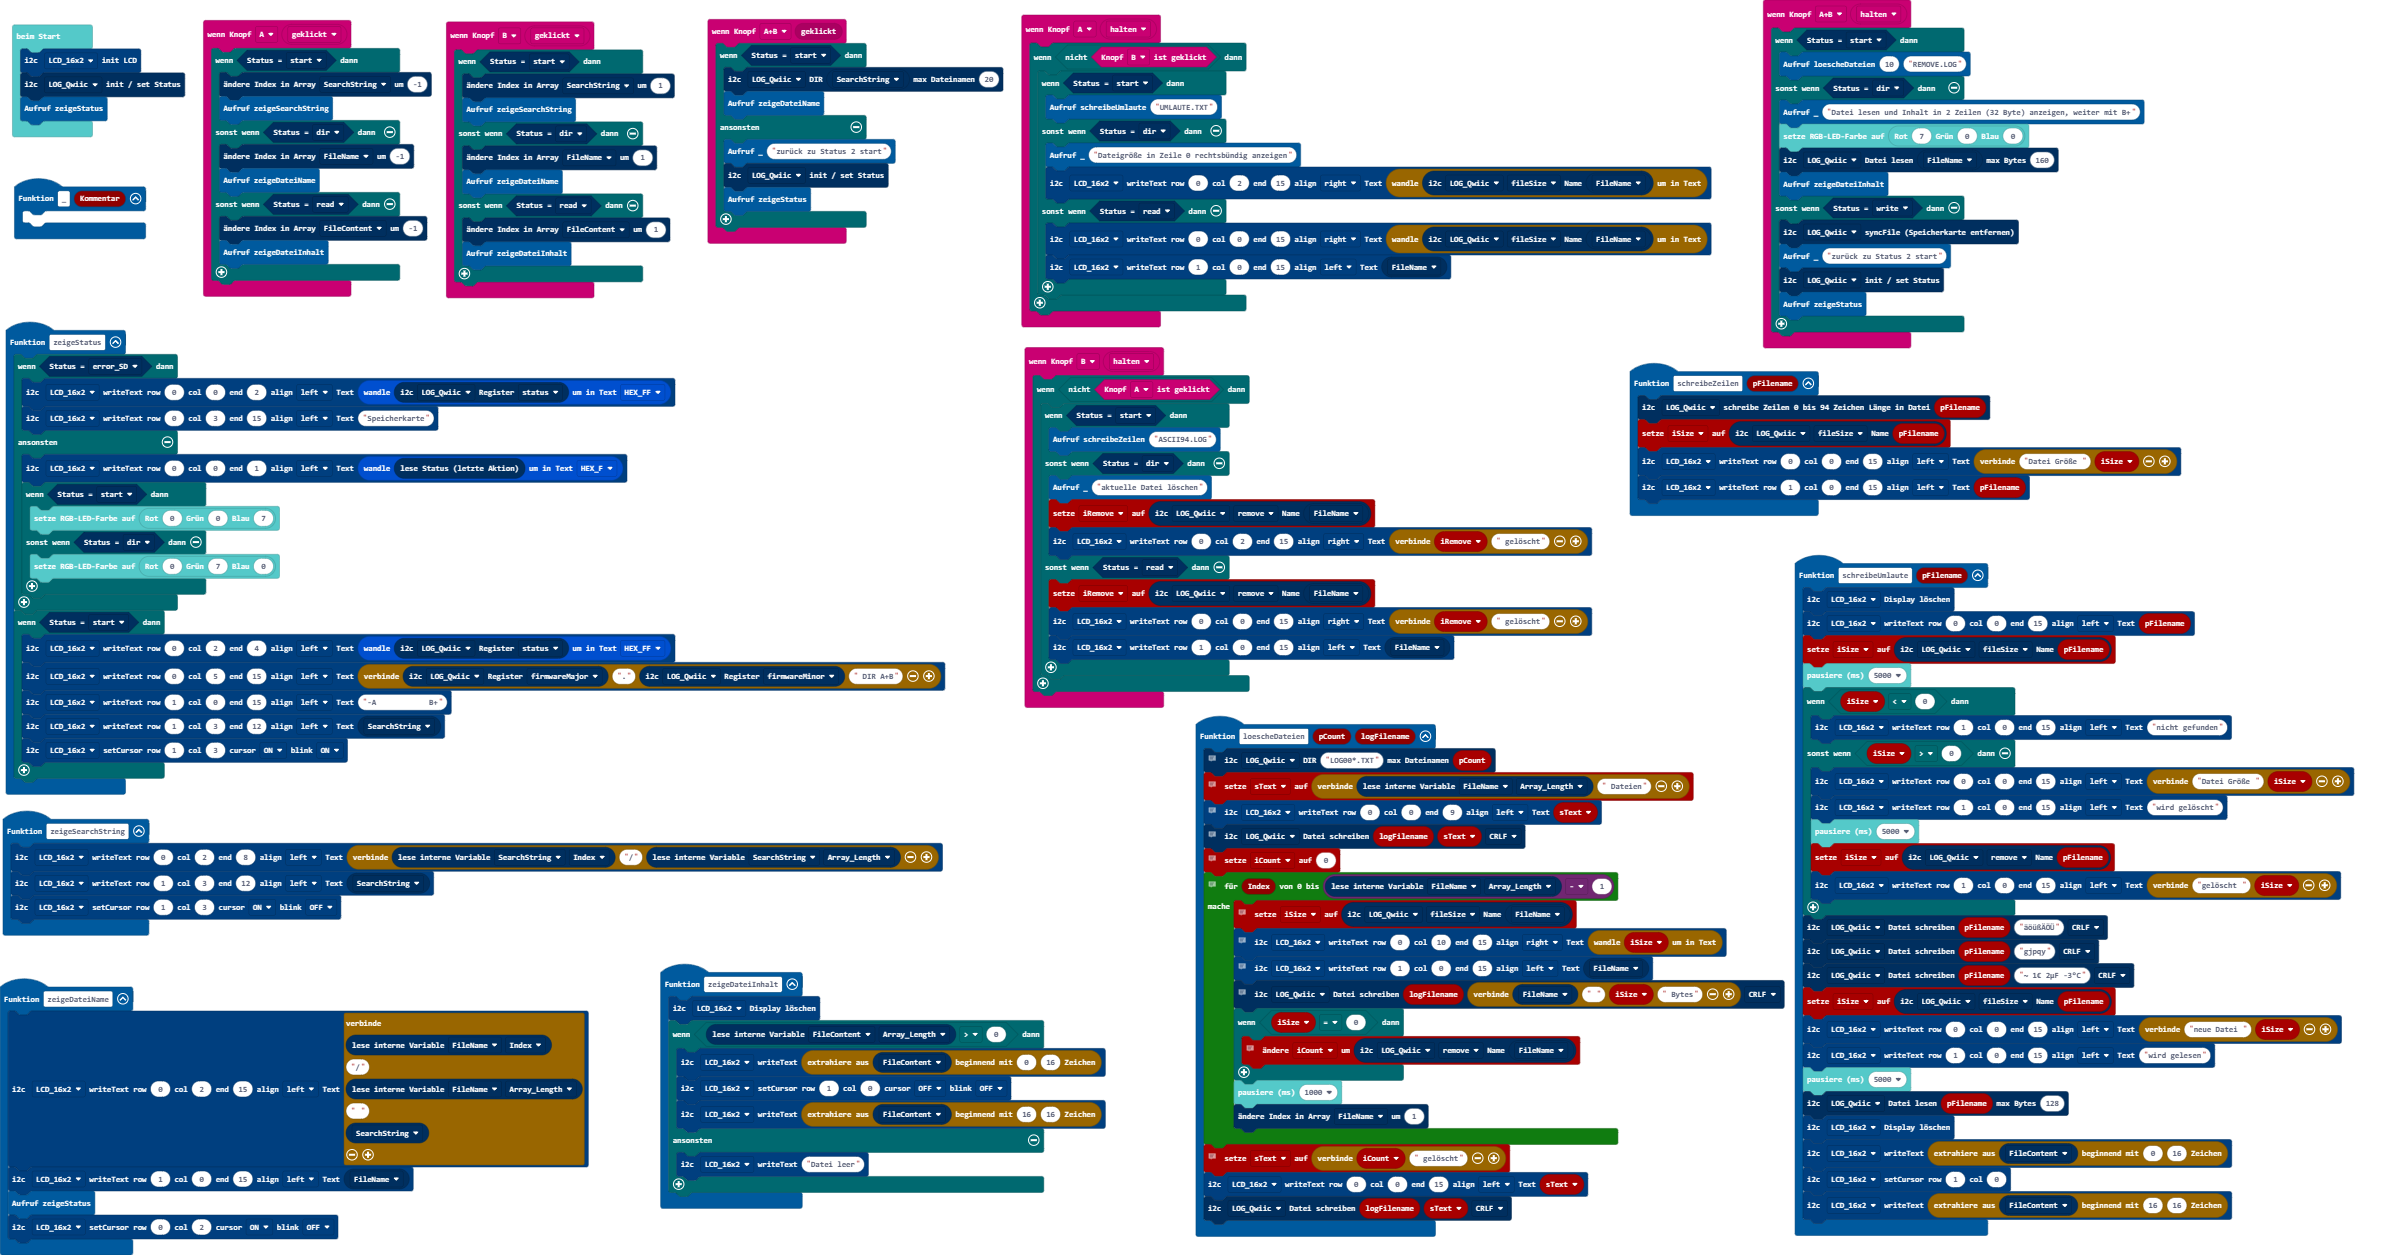
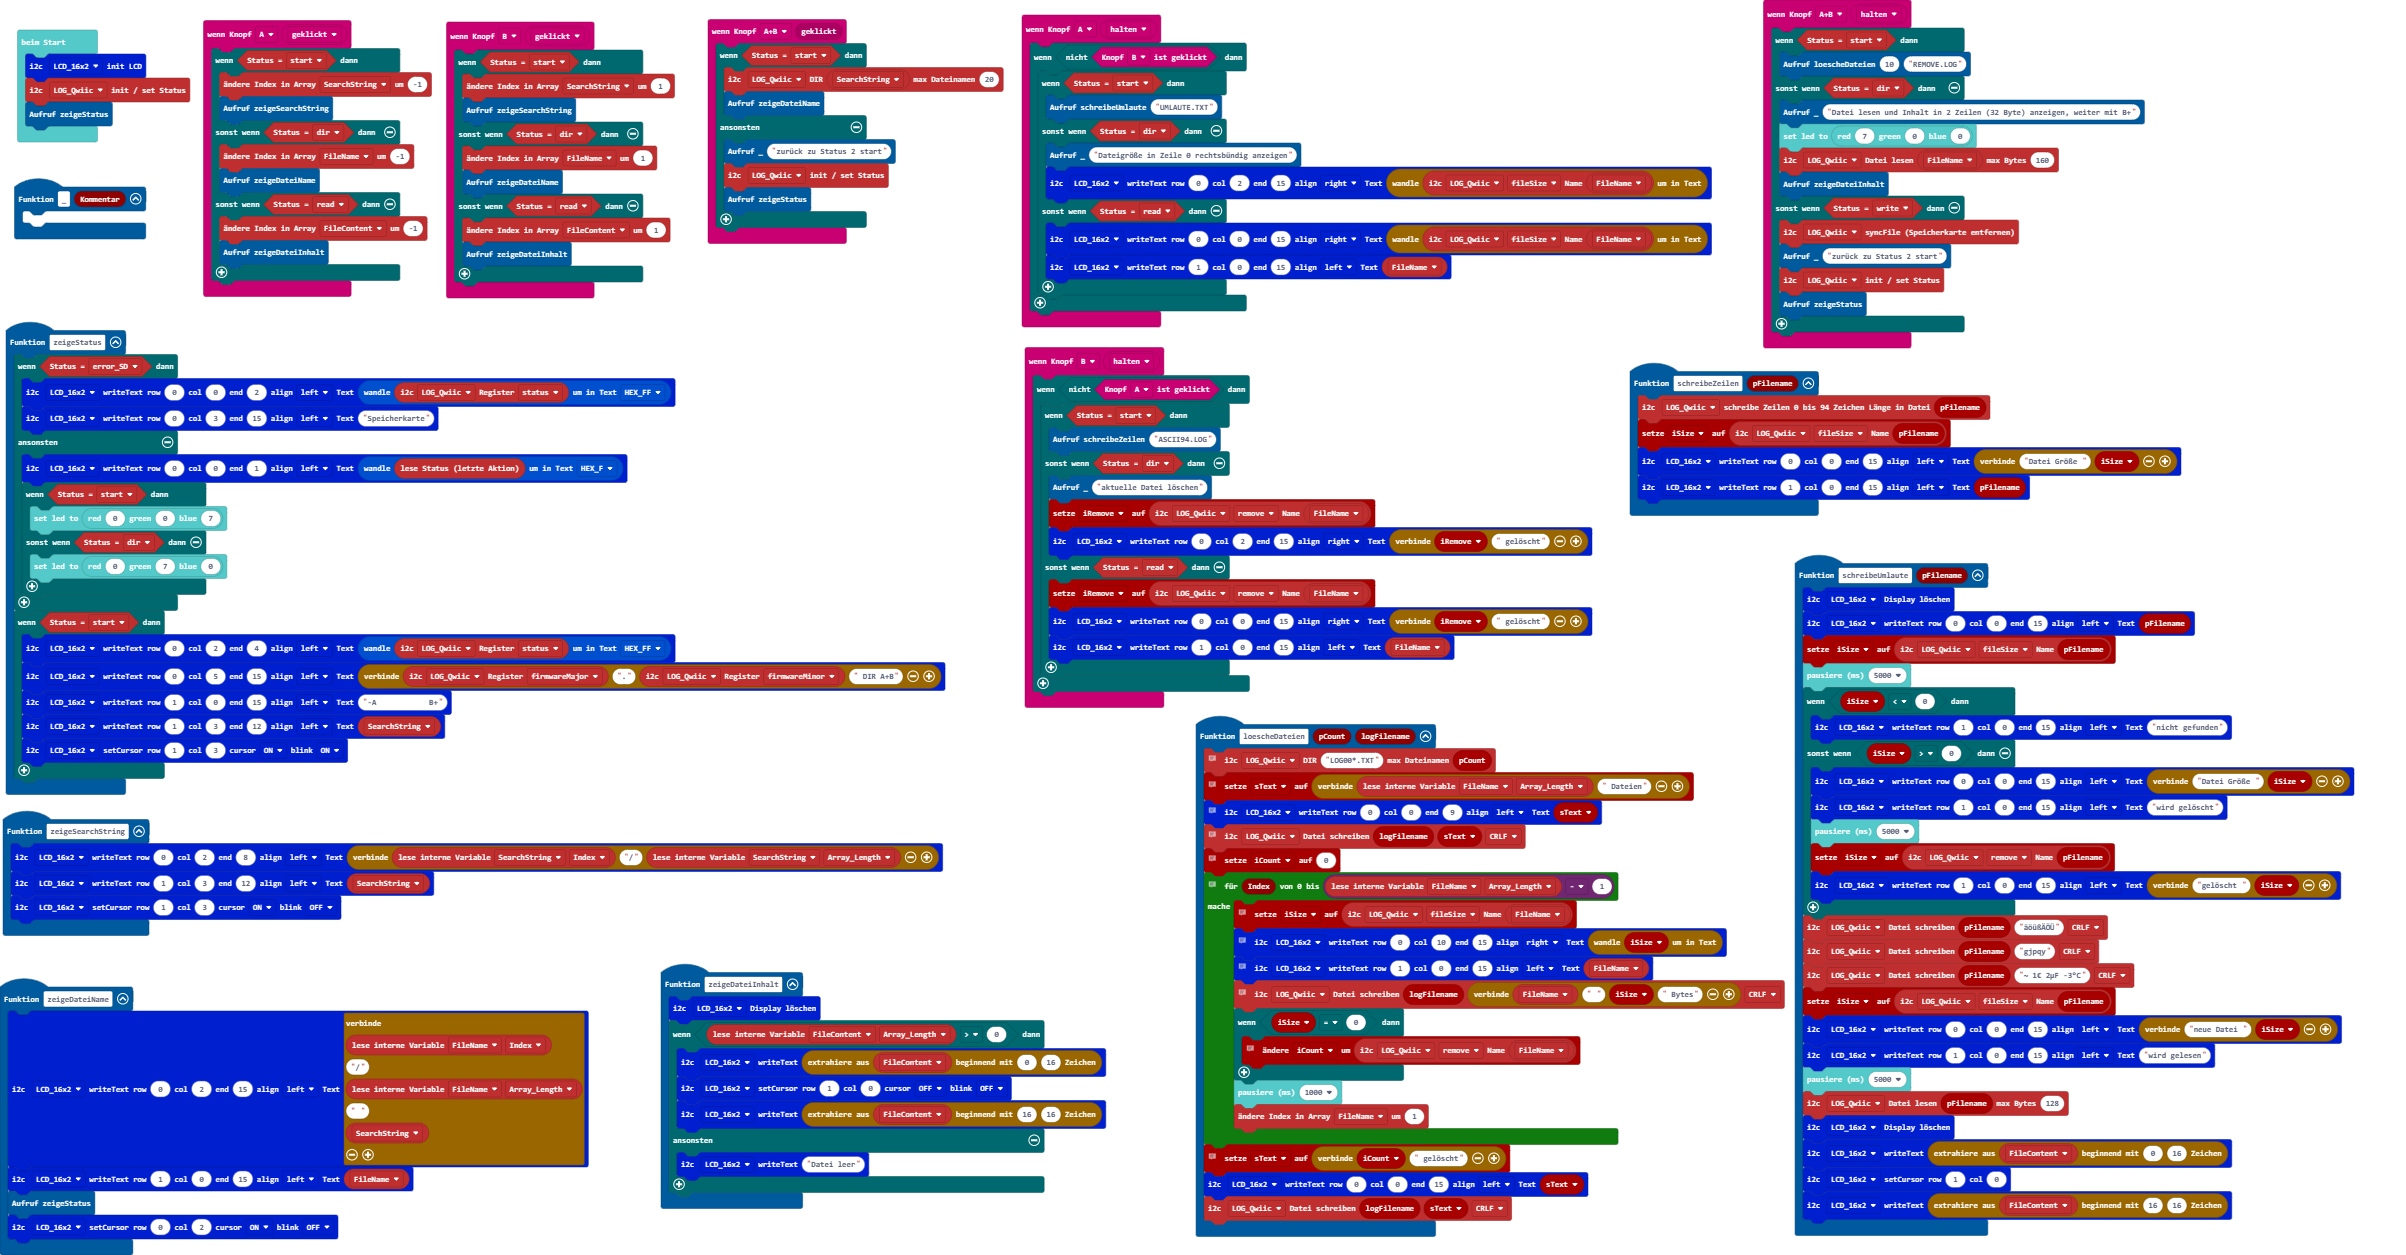
Aktualisiere pxt.json, main.blocks, main.ts

diff --git a/main.ts b/main.ts
@@ -40,7 +40,7 @@ function zeigeSearchString () {
     lcd16x2rgb.writeText(lcd16x2rgb.eADDR_LCD.LCD_16x2, 1, 3, 12, lcd16x2rgb.eAlign.left, qwiicopenlog.getString(qwiicopenlog.eArray.SearchString))
     lcd16x2rgb.setCursorCB(lcd16x2rgb.eADDR_LCD.LCD_16x2, 1, 3, lcd16x2rgb.eONOFF.ON, lcd16x2rgb.eONOFF.OFF)
 }
-input.onButtonEvent(Button.A, input.buttonEventValue(ButtonEvent.Click), function () {
+input.onButtonEvent(Button.A, ButtonEvent.Click, function () {
     if (qwiicopenlog.isStatus(qwiicopenlog.eStatus.start)) {
         qwiicopenlog.changeIndex(qwiicopenlog.eArray.SearchString, -1)
         zeigeSearchString()
@@ -94,7 +94,7 @@ function zeigeStatus () {
         lcd16x2rgb.setCursorCB(lcd16x2rgb.eADDR_LCD.LCD_16x2, 1, 3, lcd16x2rgb.eONOFF.ON, lcd16x2rgb.eONOFF.ON)
     }
 }
-input.onButtonEvent(Button.B, input.buttonEventValue(ButtonEvent.Click), function () {
+input.onButtonEvent(Button.B, ButtonEvent.Click, function () {
     if (qwiicopenlog.isStatus(qwiicopenlog.eStatus.start)) {
         qwiicopenlog.changeIndex(qwiicopenlog.eArray.SearchString, 1)
         zeigeSearchString()
@@ -109,7 +109,7 @@ input.onButtonEvent(Button.B, input.buttonEventValue(ButtonEvent.Click), functio
 function _ (Kommentar: string) {
 	
 }
-input.onButtonEvent(Button.A, input.buttonEventValue(ButtonEvent.Hold), function () {
+input.onButtonEvent(Button.A, ButtonEvent.Hold, function () {
     if (!(input.buttonIsPressed(Button.B))) {
         if (qwiicopenlog.isStatus(qwiicopenlog.eStatus.start)) {
             schreibeUmlaute("UMLAUTE.TXT")
@@ -122,7 +122,7 @@ input.onButtonEvent(Button.A, input.buttonEventValue(ButtonEvent.Hold), function
         }
     }
 })
-input.onButtonEvent(Button.B, input.buttonEventValue(ButtonEvent.Hold), function () {
+input.onButtonEvent(Button.B, ButtonEvent.Hold, function () {
     if (!(input.buttonIsPressed(Button.A))) {
         if (qwiicopenlog.isStatus(qwiicopenlog.eStatus.start)) {
             schreibeZeilen("ASCII94.LOG")
@@ -171,7 +171,7 @@ function loescheDateien (pCount: number, logFilename: string) {
     lcd16x2rgb.writeText(lcd16x2rgb.eADDR_LCD.LCD_16x2, 0, 0, 15, lcd16x2rgb.eAlign.left, sText)
     qwiicopenlog.writeFile(qwiicopenlog.eADDR.LOG_Qwiic, logFilename, sText, qwiicopenlog.eCRLF.CRLF)
 }
-input.onButtonEvent(Button.AB, input.buttonEventValue(ButtonEvent.Hold), function () {
+input.onButtonEvent(Button.AB, ButtonEvent.Hold, function () {
     if (qwiicopenlog.isStatus(qwiicopenlog.eStatus.start)) {
         loescheDateien(10, "REMOVE.LOG")
     } else if (qwiicopenlog.isStatus(qwiicopenlog.eStatus.dir)) {
